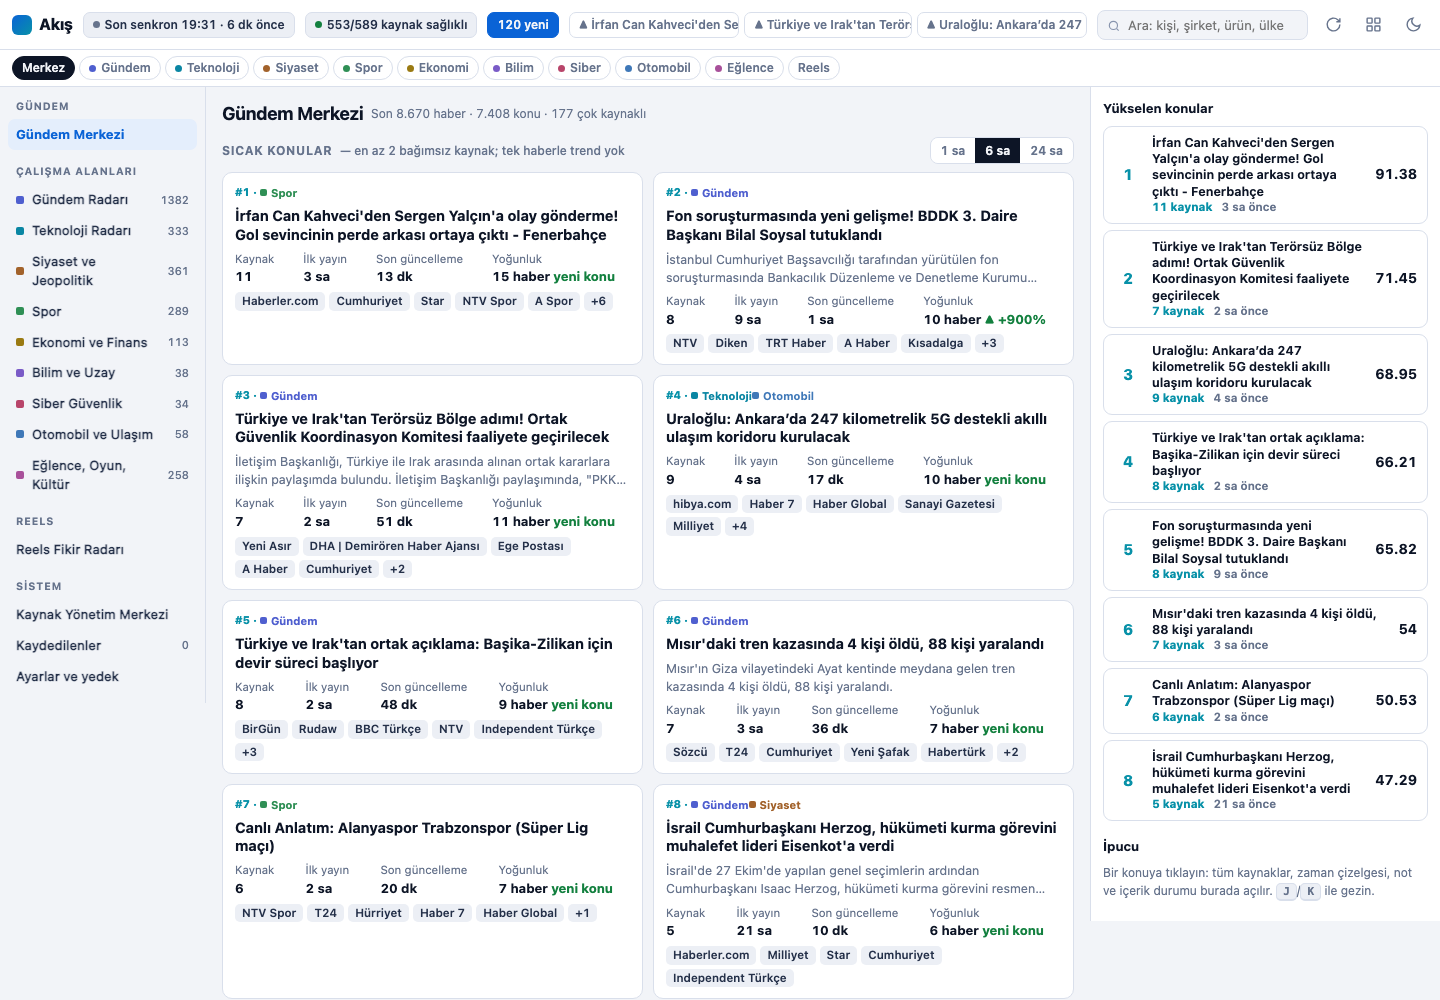
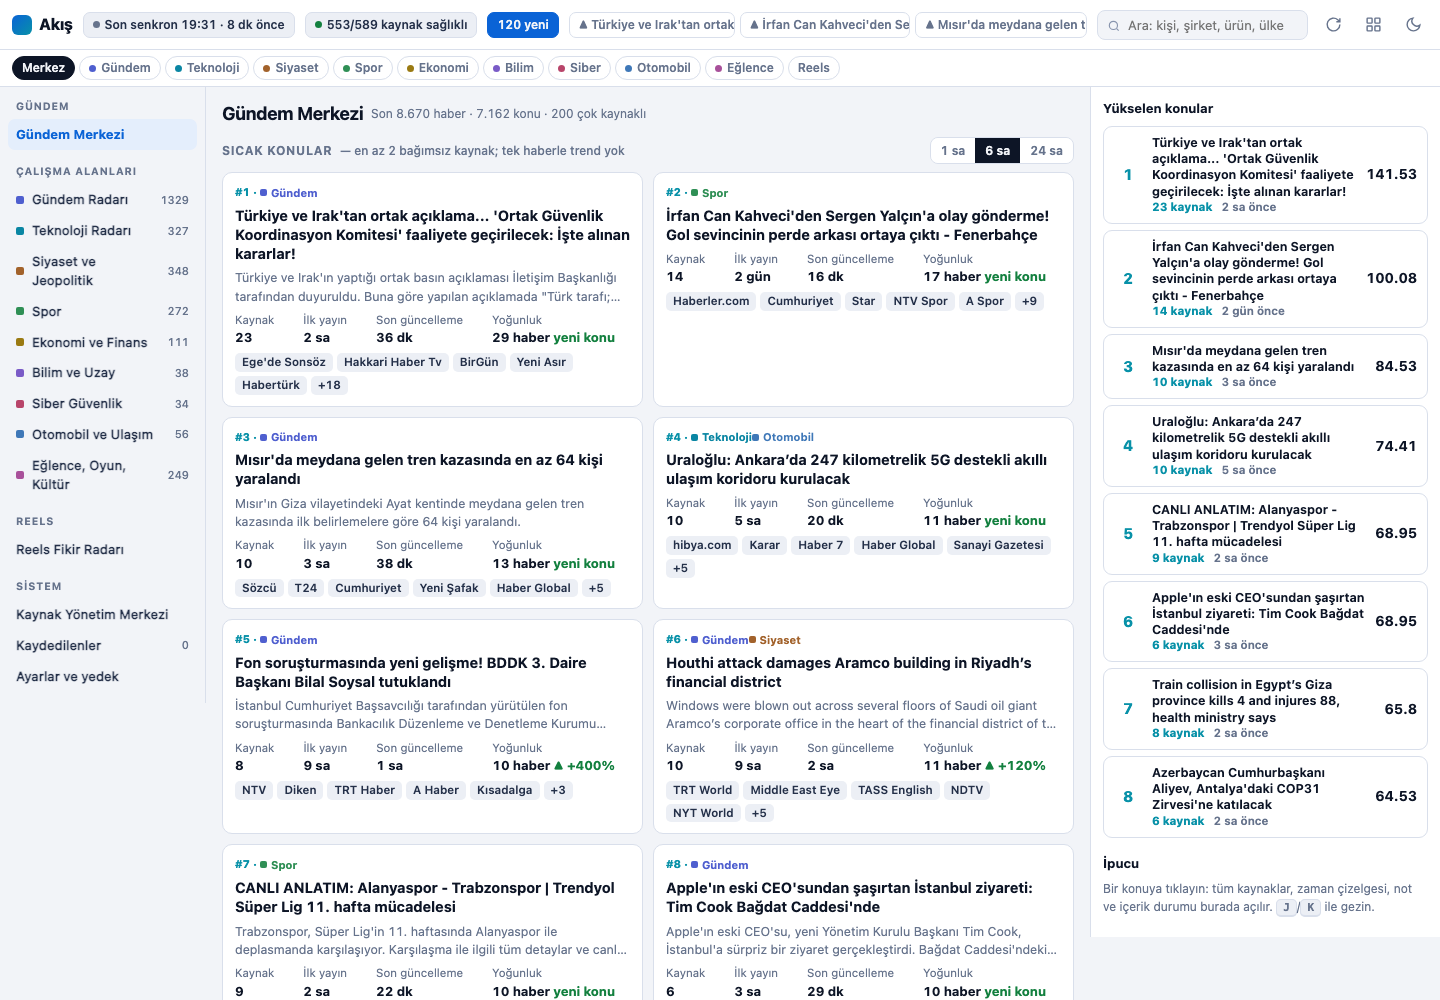
Teslim raporu, ekran görüntüleri, son düzeltmeler

diff --git a/docs/RAPOR-AKIS-2.0.md b/docs/RAPOR-AKIS-2.0.md
@@ -1,0 +1,78 @@
+# Akış 2.0 — teslim raporu (2026-11-08)
+
+Durum: **hazır, yayınlanmadı.** Her şey yerel `akis-2.0` dalında; hiçbir şey `main`e ya da uzak depoya gönderilmedi. Push = yayın olduğu için onayınızı bekliyor.
+
+- Dal: `akis-2.0` (yerel). Yedek: etiket `yedek-akis-1-2026-11-08` (main'in bu günkü ucu) + `~/Developer/Akis-yedek-akis-1-2026-11-08.tar.gz` (çalışma ağacı, .git hariç).
+- Çalışan eski sistem silinmedi: `masa.py`, `build.py` ve `id="snap"` bloğu aynen duruyor.
+- Ekran görüntüleri: `docs/ekran/*.png` (14 adet). **Hepsi gerçek veriyle**: 2026-11-08 ~19:10–19:31 (yerel saat) yerel makineden çekilen 590 kaynak. Sentetik veri yalnız testlerde kullanıldı, ekran görüntülerinde yok. Actions'ın canlı verisi değildir.
+
+## 1. Ne değişti
+**Mimari.** Eski hat korundu; yanına yeni hat eklendi: `akis2.py` → `site/data/` (ozet, kume-<9 alan>, reels, kaynaklar, indeks). Arayüz `id="snap"` bloğunu okumaz; ilk açılışta yalnız `index.html` + `ozet.json` iner (ölçüm: masaüstü ≈ 284 KB aktarım, gzip'li). `site/data/` git'e girmez (`.gitignore`) çünkü her tur ≈ 6 MB üretir ve depo zaten ~800 MB; yayın paketi `refresh` işinde üretilip doğrudan Pages'e verilir.
+
+**Çekme (`fetch_feeds.py`).** ETag/Last-Modified ile koşullu istek; 304 başarı sayılır (ikinci yerel turda 95 kaynak 304 verdi). Yanıt süresi (hareketli ortalama), son kontrol, son haber, haber sayısı kaynak durumuna yazılıyor. `aktif:false` kaynaklar çekilmez. ShiftDelete: yayıncı alanı, bağlantı ve başlık sonu üzerinden çekim aşamasında süzülüyor (eski çıktıda 11 sızıntı vardı; testlenmiş).
+
+**Kümeleme (`akis2.py`).** URL kanonikleştirme, kurum takma adları (NTV/NTV Spor, DW.com/DW Türkçe, BirGün/birgun.net…), aynı kurumun aynı başlığı tek haber; bağımsız kaynak sayısı kurum başınadır, ajans kopyaları/aynı bülten bire iner; çok dilli birleştirme (TR/EN/DE/FR/AR/ZH… 60 varlık sözlüğü + ortak sayı ya da çok seyrek ortak özel ad, 12 saat penceresi); ülke/lider adı tek başına birleştirmez; ikinci geçişte aynı olayın farklı anlatımları seyrek özel adlarla birleşir. Çıktıda 26 çok dilli küme (gündem+siyaset dosyaları).
+
+**Arayüz.** Koyu varsayılan + açık tema, sabit kompakt üst çubuk (son senkron, kaynak sağlığı, yeni konu sayısı, yükselen konular, arama, hızlı kategori, görünüm, tema), sol menü, orta akış, sağ detay/trend paneli, mobilde alt gezinme + sağ panel tam ekran. Liste/kart, "daha fazla yükle", tembel görseller, framework yok. Gündem Merkezi (sıcak 1s/6s/24s, yükselen + hesap yöntemi, son gelişmeler: tümü/yeni/okunmamış/kaydedilen/gizlenen), 9 çalışma alanı (alt konu, marka, ülke/lider, spor kapsamı TR/dünya/federasyon, dil, zaman 1s–7g + özel aralık), Reels Fikir Radarı, Kaynak Yönetim Merkezi, Kaydedilenler/içerik durumu panosu, Ayarlar (JSON dışa/içe aktarma). Detay: tüm kaynaklar ve orijinal başlıklar (yeni sekme, `noopener noreferrer`), olay gelişim sırası, farklı anlatılan ayrıntılar, ilgili haberler, kaydet, not, 8 içerik durumu, Reels adayı, gizle, başlık/bağlantı kopyala. Kısayollar `/ J K O S X Esc` korundu, `Enter`, `R` eklendi. Eski localStorage anahtarları (`akis-kayit/okundu/gizli/tema/gorunum/ziyaret`) aynen okunur: kayıtlı konularınız kaybolmaz.
+
+## 2. Kaynaklar
+**439 → 590.** Eski 439'un hiçbiri silinmedi (test var). Hepsine ek alan eklendi: `calisma, tip, ulke, oncelik, nitelik, aktif` (+ yeni olanlara `dogrulama`). `yt-spacex` (404, 5 ardışık hata) `aktif:false`, nedeni yazılı; başka bir şey kapatılmadı.
+
+**Yeni 151 kaynak**, 199+49 aday içinden `tools/kaynak_test.py` ile gerçekten sınanarak: HTTP 200, RSS/Atom ayrışması, ≥3 tarihli kayıt, son kayıt ≤45 gün, mevcut akışlarla ortak bağlantı <%60. Dağılım: ana akım 38 (FT, WSJ, Le Monde, Spiegel, Tagesschau, DW/BBC/France24 çok dilli, Haaretz, Kyiv Independent, Euractiv, TRT World, HDN…), resmî kurum 10 (ABD Dışişleri/Savunma/Beyaz Saray, CISA ×2, Fed, AMB, Dışişleri TR (EN), USGS ×2), uluslararası kurum 7 (BM ×4 dil, AB Komisyonu, WHO, ICG), ajans 3, doğrulama 1 (Teyit), uzman teknoloji 10, şirket duyurusu 7, spor 9, bilimsel 7 (Science, Lancet, PLOS, bioRxiv ön çalışma…), topluluk/trend 12 (Product Hunt, GitHub sürümleri, HN Best, DEV, Google Trends DE/FR/JP/KR), toplayıcı 47 (Google Haberler site:/konu aramaları — açıkça "toplayıcı" etiketli, resmî kurumun kendi akışı gibi gösterilmedi).
+
+**Doğrulanamayanlar.** `t24, turkishminute, wsj-world, wsj-tech`: bu makineden alan adlarına ağ erişimi yok (DNS), test edilemedi. Bilinen RSS adresleriyle **aktif** eklendi ama `dogrulama.durum = "bekliyor"` — arayüzde "Doğrulama bekliyor"; ilk Actions çekişi sonucu belli olur, hata verirse devre kesici ve durum rozeti gösterir.
+
+**Eklenemeyenler (test sonucu).** Reuters/AP/AFP ve ücretli/engelli bazıları: genel RSS yok ya da 404/403. TBMM, Resmî Gazete, YSK, TÜİK, TCMB, BTK, KVKK, AFAD, bakanlıklar, NATO, IMF, Dünya Bankası: çalışan açık RSS bulunamadı ya da boş/engelli → bunlar için yalnız Google Haberler `site:`/ad aramaları "toplayıcı" olarak eklendi. Anthropic, Meta AI, Microsoft AI, ESA, EurekAlert, FIFA, UEFA, NBA, ATP, WTA, TFF/TBF/TVF, Fanatik, Sporx, beIN, Eurosport, Top Gear, Doğruluk Payı, ANKA, VOA Türkçe, Duvar: 404/403/boş (tam liste `tools/kaynak_birlestir_rapor.json`). X/Instagram/TikTok/Reddit API/YouTube Data API: anahtar ya da izin gerektirir, arayüze gizli bilgi konmayacağı için eklenmedi; mevcut Reddit akışları 429 vermeye devam ediyor (devre kesicide).
+
+**Hâlâ çalışmayan (son yerel tur):** erişim engelli (403) 10: Gazete Duvar, İnternet Haber, En Son Haber, Technopat, Teknoseyir, Gizmodo, Halk TV, Donanım Arşivi, Huawei Central, Teknoburada. Beklemede (429 devre kesici) 15 (Reddit). Uzun süredir güncellenmiyor 3 (Hürriyet Magazin, WHO, IGN Türkiye — son kayıt 25–29 gün). Yavaş 3 (WaPo, Daily Mail, HN). Hata 1 (KVKK araması boş döndü). Doğrulama bekliyor 4. Bunlar silinmedi, arayüzde kendi renkleriyle görünür. Eski çiftler (aynı URL iki kayıt: 9to5mac, macrumors, ntv-otomobil, electrek, apple-news) olduğu gibi bırakıldı; çıktıda link bazlı tekilleştiriliyor.
+
+## 3. Reels algoritması: ne değişti
+Eski: yalnız "Türkçe tüketici teknolojisi" süzgeci. `GENEL_RED` (suç, siyaset, spor, deprem, savaş, dava, maaş…) bir haber **ne kadar önemli olursa olsun** konuyu masaya hiç sokmuyordu; `REELS_RED` dizi/film/borsa/ABD/dava/kaza/milli takımı topluca atıyordu. Sonuç: 52 aday, hepsi teknoloji.
+
+Yeni (`akis2.py`):
+- **10 ölçüt, toplam 100:** güncellik 12, haber değeri 12, hayata etki 12, özgünlük 8, şaşırtıcılık 10, hikâye potansiyeli 10, görsel malzeme 8, çok kaynakta doğrulanma 12, Türkçe izleyiciye uygunluk 8, ilk 3 saniyede anlatılabilirlik 8. Her aday için dökümü arayüzde ("Puan dökümü").
+- **Eleme yalnız içerik niteliğine:** alışveriş/indirim, yayın rehberi, burç/kumar, özel kişilerin trajedisi (tecavüz, istismar, kadın cinayeti…), sponsorlu. Haber türü elenmez.
+- **Ceza (eleme değil), dar ve alana bağlı:** rutin sürüm notu, kurumsal finans dili, ürün incelemesi/liste (yalnız teknoloji/siber/oto/eğlence); yalnızca yerel kaza (yalnız gündem); yalnız ABD pazarı (yalnız teknoloji). **Siyaset ve spor hiçbir cezaya tabi değil** (test).
+- **Çok kategorili konu** tek profile kilitlenmez; birden çok profilde görünür. Profiller Teknoloji/Gündem/Siyaset/Spor; alt: bilim, siber, otomobil, ekonomi, ilginç.
+- Gerçek veride: 218 aday (Gündem 107, Siyaset 61, Teknoloji 61, Spor 60); eski kurallarla elenecek olan 61 aday artık giriyor (siyaset 25, spor 23, gündem 36). Elenenler: yayın rehberi 26, özel kişi trajedisi 9, burç/kumar 9, alışveriş 3.
+- Her adayda: önerilen başlık, 1 cümle özet, neden gündemde, en çarpıcı ayrıntı (başlığı tekrar etmeyen cümle), Türk izleyicisi için önemi, doğrulama durumu (≥2 bağımsız kaynak adlarıyla ya da "DOĞRULANMADI"), görsel/video potansiyeli, 3 hook, anlatım açısı, puan + gerekçe, risk. Hook ve açı **kural şablonudur** (yapay zekâ değil); kümeden hesaplanan değerleri kullanır, uydurma iddia içermez. Not: "Tahmini editoryal değerlendirme, viral garantisi değildir."
+- **Panel uyarısı:** TechTurco panelinin Akış sayfası hâlâ eski `masa.json` Reels listesini (teknoloji ağırlıklı) gösterir; panelin blade ikizi güncellenene kadar yeni Reels yalnız Akış 2.0 sayfasındadır. Panel koduna dokunulmadı (talimat).
+
+## 4. Testler (hepsi geçti: 59 test, `python3 -m unittest discover -s tests -t .`)
+| Alan | Ne sınandı |
+|---|---|
+| Panel sözleşmesi | `id="snap"` PHP'deki gibi okunuyor (ilk `id="snap"` → `>` → `</script>`), tam bir kez geçiyor, `/*SNAP*/` kalmıyor; `masa.json` üst anahtarlar + küme anahtarları; baseline (bugünkü canlı çıktı) ve üretilen çıktı |
+| RSS/çekme | yerel HTTP sunucusuyla: 200, ETag, 304, gzip, bozuk XML yedek ayrıştırma, 403/404/429 + Retry-After |
+| Hata yalıtımı | hatalı kaynaklar istisna fırlatmaz, diğerleri çekilir; 304 ardışık hatayı sıfırlar; devre kesici |
+| Kümeleme | aynı olay farklı başlık; farklı olaylar (aynı kişi) birleşmez; Gazze genel haberleri dil ortak diye birleşmez; uzak zaman birleşmez; ikinci geçiş (UFC/Trump) birleşir |
+| Çok dilli | TR/EN/DE deprem; Fransızca/İngilizce aynı başlık; CJK/Arapça jetonları |
+| Bağımsız kaynak | ajans kopyası 1 sayılır; bağımsız anlatım 3; kurum takma adları; kanonik URL |
+| Reels | siyaset/spor/gündem başlıkları elenmiyor; yalnız dar listedeki içerik niteliği eleniyor; siyaset/spor cezaya tabi değil; uçtan uca 4 profil var |
+| Kaynak durumları | aktif/yavaş/hata/erişim-engelli/güncellenmiyor/devre dışı/beklemede |
+| Kaynak listesi | eski 439'un tümü duruyor, alanlar, ShiftDelete yok, yeni kaynak doğrulama kaydı, ücretli duvar etiketi, Reddit "erken sinyal" |
+| Çıktı | JSON'lar geçerli, ilk yükleme boyutu sınırı, ShiftDelete hiçbir çıktıda yok, sıcak/yükselen konularda ≥2 bağımsız kaynak |
+| İş akışı | adım sırası, `push` yalnız `main`, zincir kopmaz, eşzamanlı çalışma yok, gizli anahtar yok |
+
+**Arayüz (gerçek tarayıcıda, Chrome):** 9 alan + Reels + Kaynaklar + Kaydedilen + Ayarlar hatasız açılıyor (uygulama hatası yok; konsolda yalnız üçüncü taraf bir haber görselinin 402 yanıtı görüldü, görsel hata olunca kaldırılıyor); daha fazla yükle, kaydet/kaldır, gizle/Geri al, J/K, Esc, zaman (1s), dil (TR), alt konu, spor TR/Dünya, arama (genel ve `kaynak:ntv`), içerik durumu, not, Reels işareti, kart görünümü, tema, dış bağlantı `_blank`+`noopener noreferrer`, JSON dışa/içe aktarma gidiş-dönüş, kaynak merkezi durum/tip filtresi, yeni kaynak taslağı, "kaydet" düğmesinin **olmaması**. Bu denetim betik olarak depoya konmadı (elle yürütüldü).
+
+**Performans (Chrome DevTools, gzip'li yerel sunucu, önbellek kapalı):**
+| Senaryo | FCP | DOMContentLoaded/load | Aktarım |
+|---|---|---|---|
+| Masaüstü, ana ekran | 52 ms | 38 / 39 ms | 284 KB, 4 istek |
+| Mobil 390 px, 4× CPU, ~1,6 Mbps/150 ms | 224 ms | 1160 / 1166 ms | 284 KB, 3 istek |
+| Mobil Reels (tembel parça dahil) | 236 ms | 1157 / 1162 ms | 490 KB, 6 istek |
+FCP başlık çubuğunun boyanmasıdır; içerik `ozet.json` gelince çıkar. Gerçek ağ/cihaz ölçümü değildir (yerel sunucu, CDP kısıtlaması); GitHub Pages üzerinde yeniden ölçülmeli. `id="snap"` bloğu yüzünden `index.html` hâlâ ~440 KB (panel için); panel `masa.json`/`data/*` okumaya geçerse ~150 KB'a iner.
+
+## 5. Actions ve güncelleme sıklığı
+- **Ölçüm:** son 8 çalıştırmanın başlangıçları 8,8–9,2 dk arayla (`gh run list`). Yani `tekrar` zinciri etkin olarak **≈9 dakikada bir** çalışıyor; "30 dakika" yalnız yedek cron. Eski README yanlıştı, düzeltildi. Çalıştırma ≈1 dk iş + 8 dk bekleme. **Sıklığı artırmadım**: önce Actions dakika limiti, `git push` yarışı ve kaynak yükü (ortalama yanıt 437 ms, p90 1,0 s; 590 kaynak, 24 iş parçacığı) ölçülmeli. ETag/304 yükü zaten düşürüyor (ikinci turda 590'ın 95'i 304).
+- **Depo büyümesi (dikkat):** `.git` ≈ 800 MB / 1647 commit; her tur `site/` (feeds.json ≈ 5 MB) commitleniyor. Yeni çıktıyı commitlemedim. Öneri (yapılmadı): durum dosyalarını da commit yerine artefakt/cache ile taşımak.
+- **İş akışı değişiklikleri:** testler → çek → `masa.py` → `akis2.py` → `build.py` → çıktı doğrulama → commit → yayın paketi; doğrulama bozuk üretimi commitlemeden durdurur (önceki site yayında kalır, `tekrar` zinciri `!cancelled()` ile sürer). `push` tetikleyicisi yalnız `main` (gelişme dalı yayın zinciri başlatmasın) ve `akis2.py`/`tests/**` yollarını kapsar. Bu iş akışı **GitHub'da hiç çalıştırılmadı** (yalnız metin testleri + yerel zincir); ilk çalıştırma main'e push sonrası olur.
+
+## 6. Bilinen sınırlar / yapılacaklar
+1. TechTurco panelinin Reels ve Gündem sekmesi eski `masa.json`'u okur (yeni Reels paneli yansımaz).
+2. Kümeleme yalnız başlık/özet üzerinde; haber gövdesi çekilmediği için içerik benzerliği yok. Farklı dil birleştirme muhafazakâr (kaçırabilir, yanlış birleştirmez).
+3. "Kişi" araması: lider/şirket/ülke sözlüğüyle (≈60 varlık); keyfi kişi adları başlık/özet metin aramasıyla bulunur.
+4. Zaman penceresi 7 gün; alan başına en güncel 360 konu dosyaya yazılır.
+5. Spor: "Federasyon/lig açıklamaları" süzgeci kaynak adı/başlık ifadesine dayanır; TFF/TBF/TVF resmî akışı bulunamadığı için Google Haberler aramasıdır.
+6. Hızlı kategori çipleri ve mobil alt gezinme tarayıcıda denendi; gerçek telefonda (dokunma, klavye) denenmedi.
+7. Reels hook/açı şablon metnidir; yayından önce editoryal gözden geçirme şart.
